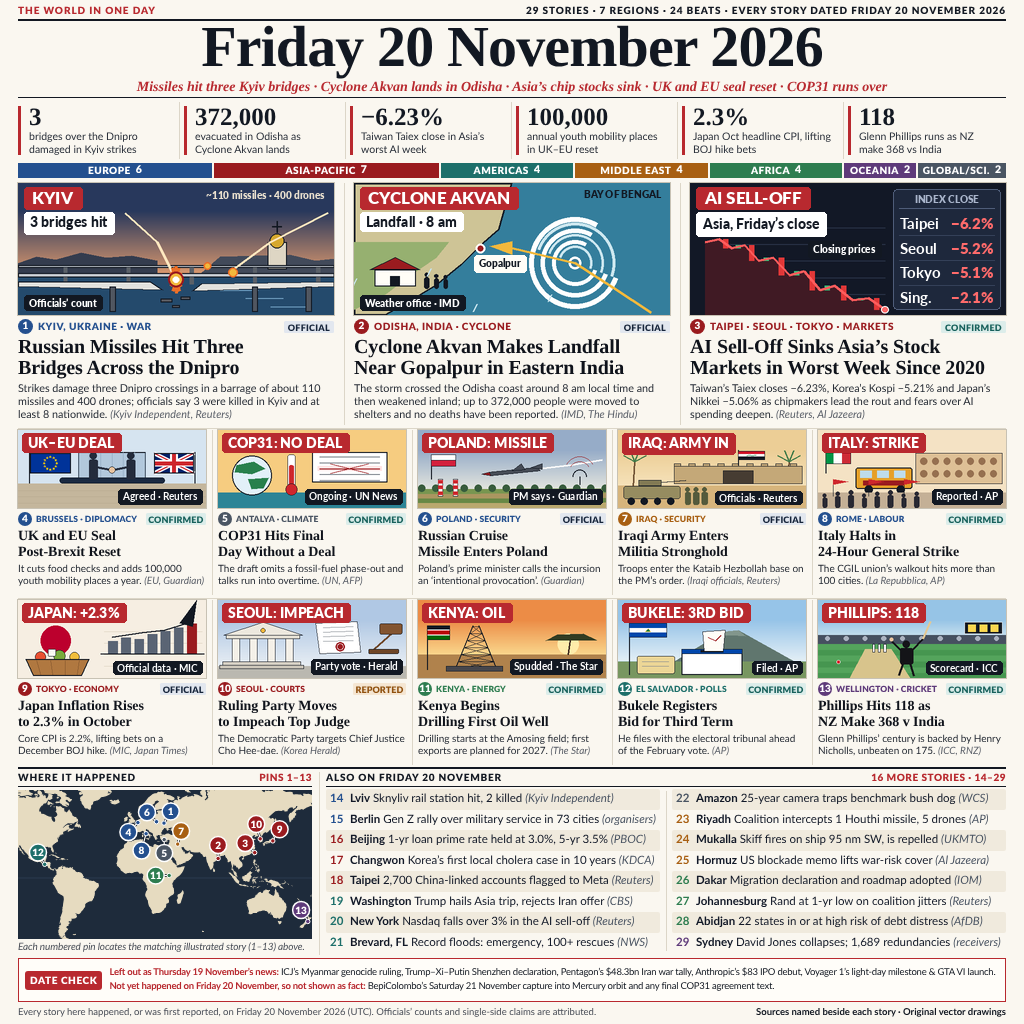
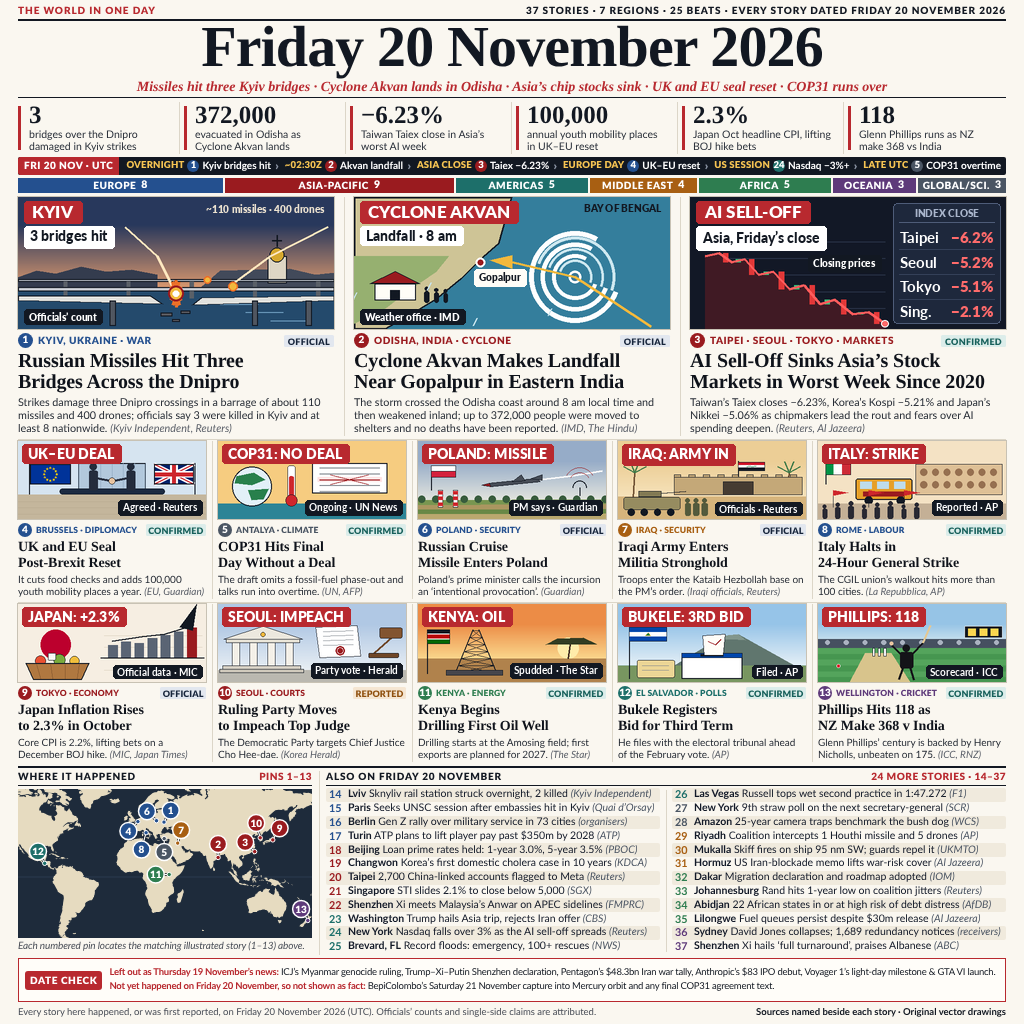
v14 (Opus 5.5): 37 verified stories across 7 regions & 25 beats, FRI 20 NOV UTC timeline strip, pixel-audited >=4px zero-overlap art pills, exact land-dot leader-pin map, and high-contrast briefs (461 KiB q89)

diff --git a/build_poster.py b/build_poster.py
@@ -1,10 +1,10 @@
 #!/usr/bin/env python3
-"""Build the Friday 20 November 2026 world-news front page (v13).
+"""Build the Friday 20 November 2026 world-news front page (v14).
 
 Run:  python3 build_poster.py
 Writes: assets/art_01..13.png, assets/poster.png, entry.png (1024x1024
-progressive 4:4:4 JPEG at q89, 380,000-465,000 bytes) and
-/tmp/news_1120_v13_300.png (300 px Lanczos proof).
+progressive 4:4:4 JPEG at q89, 440,000-480,000 bytes) and
+/tmp/news_1120_v14_300.png (300 px Lanczos proof).
 """
 from __future__ import annotations
 
@@ -25,18 +25,19 @@ import mapgen
 BASE = Path(__file__).resolve().parent
 ASSETS = BASE / "assets"
 CHROME = "/usr/bin/google-chrome"
-BUILD_TMP = Path("/tmp/news_1120_v13_build")
-PROOF_300 = Path("/tmp/news_1120_v13_300.png")
-MIN_BYTES, MAX_BYTES = 380_000, 465_000   # v13 hard budget; the gate limit is 1,048,576 bytes
+BUILD_TMP = Path("/tmp/news_1120_v14_build")
+PROOF_300 = Path("/tmp/news_1120_v14_300.png")
+MIN_BYTES, MAX_BYTES = 440_000, 480_000   # v14 hard budget; the gate limit is 1,048,576 bytes
 QUALITIES = (89,)
 
 LATO = Path("/usr/share/fonts/truetype/lato")
-BRIEF_PX = 11.5          # brief type size (v9: 10.5 px)
-BRIEF_ROW = 20.5         # brief line pitch, px (v9: 13.8 px)
-BRIEF_PAD = 4            # left/right padding inside each tinted row, px
-BRIEF_MAX_W = 326        # numeral + text must fit one line this wide (334 px column - padding)
-BNUM_PX = 11.5           # uncircled bold wire numeral
-BNUM_W, BNUM_GAP = 16, 4 # numeral box width and gap before the place (px)
+BRIEF_PX = 10.5          # brief type size (v13: 11.5 px for 16 briefs; v14 restores 24)
+BRIEF_ROW = 13.8         # brief line pitch, px: 12 rows per column
+BRIEF_PAD = 3            # left/right padding inside each tinted row, px
+BRIEF_MAX_W = 328        # numeral + text must fit one line this wide (334 px column - padding)
+BNUM_PX = 10.8           # uncircled bold wire numeral
+BNUM_W, BNUM_GAP = 15, 4 # numeral box width and gap before the place (px)
+TL_H = 18                # height of the FRIDAY 20 NOV (UTC) timeline strip, px
 BRIEF_INK = "#111827"
 GRID_DL_PX = 8.5         # 900-weight caps dateline on the 188 px cards (leads use 10 px)
 DATELINE_GAP = 6         # clear px between the end of PLACE · BEAT and its certainty pill
@@ -46,9 +47,9 @@ DATELINE_GAP = 6         # clear px between the end of PLACE · BEAT and its cer
 # 20 November 2026 (UTC). Thursday 19 November news and events that have not
 # happened yet (Saturday 21 November) appear only in the DATE CHECK box, as
 # omissions.
-# kind: hero (1-3) · grid (4-13) · brief (14-29).
+# kind: hero (1-3) · grid (4-13) · brief (14-37).
 # dl: the beat word printed in the dateline; beat: the category counted in
-# the "24 beats" tally.
+# the "25 beats" tally.
 # Every illustrated story prints PLACE · BEAT on its dateline row, with its
 # tag (OFFICIAL / CONFIRMED / REPORTED) as a tinted pill at the row's right end.
 # The 188 px cards use short place names so both fit on one line.
@@ -126,46 +127,62 @@ STORIES = [
          headline="Phillips Hits 118 as NZ Make 368 v India",
          summary="Glenn Phillips’ century is backed by Henry Nicholls, unbeaten on 175.",
          art="art_13.png", pin=(174.8, -41.3)),
-    # --- also on Friday: 16 wire briefs, 8 per column, every region --------
-    # --- Europe -------------------------------------------------------------
+    # --- also on Friday: 24 wire briefs, 12 per column, every region ---
+    # --- Europe ---------------------------------------------
     dict(n=14, kind="brief", region="EUROPE", beat="Conflict", place="Lviv",
-         text="Sknyliv rail station hit, 2 killed", src="Kyiv Independent"),
-    dict(n=15, kind="brief", region="EUROPE", beat="Protest", place="Berlin",
+         text="Sknyliv rail station struck overnight, 2 killed", src="Kyiv Independent"),
+    dict(n=15, kind="brief", region="EUROPE", beat="Diplomacy", place="Paris",
+         text="Seeks UNSC session after embassies hit in Kyiv", src="Quai d’Orsay"),
+    dict(n=16, kind="brief", region="EUROPE", beat="Protest", place="Berlin",
          text="Gen Z rally over military service in 73 cities", src="organisers"),
+    dict(n=17, kind="brief", region="EUROPE", beat="Sport", place="Turin",
+         text="ATP plans to lift player pay past $350m by 2028", src="ATP"),
     # --- Asia-Pacific -------------------------------------------------------
-    dict(n=16, kind="brief", region="ASIA-PACIFIC", beat="Central banks", place="Beijing",
-         text="1-yr loan prime rate held at 3.0%, 5-yr 3.5%", src="PBOC"),
-    dict(n=17, kind="brief", region="ASIA-PACIFIC", beat="Health", place="Changwon",
-         text="Korea’s first local cholera case in 10 years", src="KDCA"),
-    dict(n=18, kind="brief", region="ASIA-PACIFIC", beat="Disinformation", place="Taipei",
+    dict(n=18, kind="brief", region="ASIA-PACIFIC", beat="Central banks", place="Beijing",
+         text="Loan prime rates held: 1-year 3.0%, 5-year 3.5%", src="PBOC"),
+    dict(n=19, kind="brief", region="ASIA-PACIFIC", beat="Health", place="Changwon",
+         text="Korea’s first domestic cholera case in 10 years", src="KDCA"),
+    dict(n=20, kind="brief", region="ASIA-PACIFIC", beat="Disinformation", place="Taipei",
          text="2,700 China-linked accounts flagged to Meta", src="Reuters"),
+    dict(n=21, kind="brief", region="ASIA-PACIFIC", beat="Markets", place="Singapore",
+         text="STI slides 2.1% to close below 5,000", src="SGX"),
+    dict(n=22, kind="brief", region="ASIA-PACIFIC", beat="Diplomacy", place="Shenzhen",
+         text="Xi meets Malaysia’s Anwar on APEC sidelines", src="FMPRC"),
     # --- Americas -----------------------------------------------------------
-    dict(n=19, kind="brief", region="AMERICAS", beat="US politics", place="Washington",
+    dict(n=23, kind="brief", region="AMERICAS", beat="US politics", place="Washington",
          text="Trump hails Asia trip, rejects Iran offer", src="CBS"),
-    dict(n=20, kind="brief", region="AMERICAS", beat="Tech", place="New York",
-         text="Nasdaq falls over 3% in the AI sell-off", src="Reuters"),
-    dict(n=21, kind="brief", region="AMERICAS", beat="Weather", place="Brevard, FL",
+    dict(n=24, kind="brief", region="AMERICAS", beat="Tech", place="New York",
+         text="Nasdaq falls over 3% as the AI sell-off spreads", src="Reuters"),
+    dict(n=25, kind="brief", region="AMERICAS", beat="Weather", place="Brevard, FL",
          text="Record floods: emergency, 100+ rescues", src="NWS"),
+    dict(n=26, kind="brief", region="AMERICAS", beat="Sport", place="Las Vegas",
+         text="Russell tops wet second practice in 1:47.272", src="F1"),
     # --- Global / science ---------------------------------------------------
-    dict(n=22, kind="brief", region="GLOBAL/SCIENCE", beat="Wildlife", place="Amazon",
-         text="25-year camera traps benchmark bush dog", src="WCS"),
+    dict(n=27, kind="brief", region="GLOBAL/SCIENCE", beat="UN", place="New York",
+         text="9th straw poll on the next secretary-general", src="SCR"),
+    dict(n=28, kind="brief", region="GLOBAL/SCIENCE", beat="Wildlife", place="Amazon",
+         text="25-year camera traps benchmark the bush dog", src="WCS"),
     # --- Middle East --------------------------------------------------------
-    dict(n=23, kind="brief", region="MIDDLE EAST", beat="Conflict", place="Riyadh",
-         text="Coalition intercepts 1 Houthi missile, 5 drones", src="AP"),
-    dict(n=24, kind="brief", region="MIDDLE EAST", beat="Piracy", place="Mukalla",
-         text="Skiff fires on ship 95 nm SW, is repelled", src="UKMTO"),
-    dict(n=25, kind="brief", region="MIDDLE EAST", beat="Shipping", place="Hormuz",
-         text="US blockade memo lifts war-risk cover", src="Al Jazeera"),
+    dict(n=29, kind="brief", region="MIDDLE EAST", beat="Conflict", place="Riyadh",
+         text="Coalition intercepts 1 Houthi missile and 5 drones", src="AP"),
+    dict(n=30, kind="brief", region="MIDDLE EAST", beat="Piracy", place="Mukalla",
+         text="Skiff fires on ship 95 nm SW; guards repel it", src="UKMTO"),
+    dict(n=31, kind="brief", region="MIDDLE EAST", beat="Shipping", place="Hormuz",
+         text="US Iran-blockade memo lifts war-risk cover", src="Al Jazeera"),
     # --- Africa -------------------------------------------------------------
-    dict(n=26, kind="brief", region="AFRICA", beat="Migration", place="Dakar",
+    dict(n=32, kind="brief", region="AFRICA", beat="Migration", place="Dakar",
          text="Migration declaration and roadmap adopted", src="IOM"),
-    dict(n=27, kind="brief", region="AFRICA", beat="Markets", place="Johannesburg",
-         text="Rand at 1-yr low on coalition jitters", src="Reuters"),
-    dict(n=28, kind="brief", region="AFRICA", beat="Debt", place="Abidjan",
-         text="22 states in or at high risk of debt distress", src="AfDB"),
+    dict(n=33, kind="brief", region="AFRICA", beat="Markets", place="Johannesburg",
+         text="Rand hits 1-year low on coalition jitters", src="Reuters"),
+    dict(n=34, kind="brief", region="AFRICA", beat="Debt", place="Abidjan",
+         text="22 African states in or at high risk of debt distress", src="AfDB"),
+    dict(n=35, kind="brief", region="AFRICA", beat="Energy", place="Lilongwe",
+         text="Fuel queues persist despite $30m release", src="Al Jazeera"),
     # --- Oceania ------------------------------------------------------------
-    dict(n=29, kind="brief", region="OCEANIA", beat="Business", place="Sydney",
-         text="David Jones collapses; 1,689 redundancies", src="receivers"),
+    dict(n=36, kind="brief", region="OCEANIA", beat="Business", place="Sydney",
+         text="David Jones collapses; 1,689 redundancy notices", src="receivers"),
+    dict(n=37, kind="brief", region="OCEANIA", beat="Diplomacy", place="Shenzhen",
+         text="Xi hails ‘full turnaround’, praises Albanese", src="ABC"),
 ]
 
 REGION_ORDER = ["EUROPE", "ASIA-PACIFIC", "AMERICAS", "MIDDLE EAST", "AFRICA", "OCEANIA", "GLOBAL/SCIENCE"]
@@ -188,6 +205,22 @@ STATS = [
 # every stat must be backed by its story's text on the page
 STAT_SOURCES = {"3": (1, "three Dnipro"), "372,000": (2, "372,000"), "−6.23%": (3, "−6.23%"),
                 "100,000": (4, "100,000"), "2.3%": (9, "2.3%"), "118": (13, "118")}
+
+# Friday 20 November in UTC order. Only one clock time is printed: Cyclone
+# Akvan's landfall "around 8 am local time" (IST = UTC+5:30), i.e. ~02:30Z.
+# Every other step is a phase label because no exact time was published.
+# Japan's CPI (08:30 JST = 23:30Z Thursday) and the Wellington Test (NZ day
+# play is mostly Thursday UTC) are left off this UTC strip on purpose.
+# (when, story number, label)
+TIMELINE = [
+    ("OVERNIGHT", 1, "Kyiv bridges hit"),
+    ("~02:30Z", 2, "Akvan landfall"),
+    ("ASIA CLOSE", 3, "Taiex −6.23%"),
+    ("EUROPE DAY", 4, "UK–EU reset"),
+    ("US SESSION", 24, "Nasdaq −3%+"),
+    ("LATE UTC", 5, "COP31 overtime"),
+]
+TL_CLOCKS = {"~02:30Z"}          # the only clock times allowed on the strip
 
 DECK = ("Missiles hit three Kyiv bridges · Cyclone Akvan lands in Odisha · "
         "Asia’s chip stocks sink · UK and EU seal reset · COP31 runs over")
@@ -265,6 +298,17 @@ def measure_briefs() -> dict[int, float]:
     return out
 
 
+def timeline_html() -> str:
+    """FRIDAY 20 NOV (UTC) strip: phase/clock, region-coloured story number, label."""
+    by_n = {s["n"]: s for s in STORIES}
+    steps = "".join(
+        f'<div class="ts" data-story="{n}"><b class="tw">{esc(w)}</b>'
+        f'<span class="tn" style="background:{REGION_COLORS[by_n[n]['region']]}">{n}</span>'
+        f'<span class="tx">{esc(t)}</span></div>' for w, n, t in TIMELINE)
+    return (f'<div class="band timeline"><div class="tlhead">Fri 20 Nov · UTC</div>'
+            f'<div class="tlrail">{steps}</div></div>')
+
+
 def datecheck_html() -> str:
     return f'''
   <div class="datecheck">
@@ -310,22 +354,30 @@ body {{ font-family:'LatoX', sans-serif; color:#121822; -webkit-font-smoothing:a
 .kickerbar .l {{ color:#B8292F; }}
 .masthead {{ top:19px; height:60px; font:700 58px/52px 'LibSerif'; letter-spacing:-.015em; text-align:center; white-space:nowrap; border-top:2px solid #121822; }}
 .deck {{ top:79px; height:19px; font:italic 700 14px/18px 'LibSerif'; color:#B8292F; text-align:center; white-space:nowrap; border-bottom:1px solid #121822; }}
-.stats {{ top:102px; height:57px; display:flex; }}
+.stats {{ top:102px; height:52px; display:flex; }}
 .stat {{ flex:1 1 0; min-width:0; position:relative; padding:0 8px 0 11px; display:flex; flex-direction:column; justify-content:center; }}
 .stat::before {{ content:''; position:absolute; left:0; top:4px; bottom:4px; width:3px; background:#B8292F; }}
 .stat + .stat {{ margin-left:8px; }}
 .stat + .stat::after {{ content:''; position:absolute; left:-5px; top:0; bottom:0; border-left:1px solid #DCD6C8; }}
 .stat b {{ font:700 25px/26px 'LibSerif'; color:#121822; white-space:nowrap; }}
 .stat .sx {{ font:400 10.5px/12.5px 'LatoX'; color:#2A303A; height:25px; overflow:hidden; }}
-.regionbar {{ top:163px; height:15px; display:flex; gap:2px; }}
+.timeline {{ top:157px; height:{TL_H}px; display:flex; align-items:center; gap:7px; background:#121822; border-radius:2px; padding:0 5px 0 0; white-space:nowrap; overflow:hidden; }}
+.tlhead {{ flex:0 0 auto; align-self:stretch; display:flex; align-items:center; padding:0 6px; background:#B8292F; color:#FFF; font:900 10px/1 'LatoX'; letter-spacing:.05em; text-transform:uppercase; border-radius:2px 0 0 2px; }}
+.tlrail {{ flex:1; min-width:0; display:flex; justify-content:space-between; align-items:center; position:relative; }}
+.ts {{ display:flex; align-items:center; gap:3px; position:relative; height:14px; }}
+.ts + .ts::before {{ content:'›'; position:absolute; left:-9.5px; top:50%; transform:translateY(-52%); color:#8A93A3; font:900 12px/1 'LatoX'; }}
+.tw {{ font:900 9.5px/14px 'LatoX'; letter-spacing:.02em; color:#F6C453; }}
+.tn {{ flex:0 0 12px; width:12px; height:12px; border-radius:50%; color:#FFF; font:900 9.5px/12px 'LatoX'; text-align:center; }}
+.tx {{ font:700 10px/14px 'LatoX'; color:#FFF; }}
+.regionbar {{ top:178px; height:15px; display:flex; gap:2px; }}
 .rg {{ min-width:max-content; padding:0 5px; display:flex; align-items:center; justify-content:center; gap:5px; color:#FFF; white-space:nowrap; overflow:hidden; }}
 .rg span {{ font:900 10px/1 'LatoX'; letter-spacing:.05em; }}
 .rg b {{ font:900 10.5px/1 'LatoX'; }}
 .row {{ display:flex; }}
-.row.heroes {{ top:183px; height:242px; gap:20px; }}
-.row.grid {{ height:165px; gap:12px; }}
-.row.g1 {{ top:430px; }}
-.row.g2 {{ top:600px; }}
+.row.heroes {{ top:197px; height:239px; gap:20px; }}
+.row.grid {{ height:158px; gap:12px; }}
+.row.g1 {{ top:441px; }}
+.row.g2 {{ top:604px; }}
 .rule {{ position:absolute; left:18px; right:18px; height:0; border-top:1px solid #DCD6C8; }}
 .card {{ position:relative; display:flex; flex-direction:column; }}
 .card + .card::before {{ content:''; position:absolute; top:0; bottom:0; border-left:1px solid #DCD6C8; }}
@@ -350,7 +402,7 @@ h2 {{ margin:3px 0 0 0; font:700 20px/21px 'LibSerif'; color:#0E121A; letter-spa
 .summary {{ margin:3px 0 0 0; font:400 10.8px/13px 'LatoX'; color:#272D36; }}
 .grid .summary {{ font-size:10px; line-height:12.2px; }}
 .src {{ font-style:italic; color:#5C616A; }}
-.bottom {{ top:767px; height:188px; display:flex; gap:14px; border-top:2.5px solid #121822; padding-top:3px; }}
+.bottom {{ top:766px; height:189px; display:flex; gap:14px; border-top:2.5px solid #121822; padding-top:3px; }}
 .mapcol {{ flex:0 0 {mapgen.W}px; width:{mapgen.W}px; }}
 .briefcol {{ flex:1; min-width:0; position:relative; }}
 .briefcol::before {{ content:''; position:absolute; left:-7.5px; top:0; bottom:0; border-left:1px solid #DCD6C8; }}
@@ -364,8 +416,8 @@ h2 {{ margin:3px 0 0 0; font:700 20px/21px 'LibSerif'; color:#0E121A; letter-spa
 .bcol + .bcol::before {{ content:''; position:absolute; left:-6.5px; top:2px; bottom:2px; border-left:1px solid #DCD6C8; }}
 .brief {{ height:{BRIEF_ROW}px; display:flex; align-items:center; gap:{BNUM_GAP}px; padding:0 {BRIEF_PAD}px; border-radius:2px; }}
 .bcol .brief:nth-child(odd) {{ background:#F0EADD; }}
-.bnum {{ flex:0 0 {BNUM_W}px; width:{BNUM_W}px; font:700 {BNUM_PX}px/14px 'LatoX'; font-variant-numeric:tabular-nums; }}
-.btext {{ margin:0; font:400 {BRIEF_PX}px/14px 'LatoX'; color:{BRIEF_INK}; white-space:nowrap; }}
+.bnum {{ flex:0 0 {BNUM_W}px; width:{BNUM_W}px; font:700 {BNUM_PX}px/13px 'LatoX'; font-variant-numeric:tabular-nums; }}
+.btext {{ margin:0; font:400 {BRIEF_PX}px/13px 'LatoX'; color:{BRIEF_INK}; white-space:nowrap; }}
 .btext b {{ font-weight:700; color:{BRIEF_INK}; }}
 .btext i {{ color:#4B5563; }}
 .datecheck {{ top:958px; height:44px; border:1.5px solid #B8292F; background:#FFFDF9; display:flex; align-items:center; gap:7px; padding:0 6px; }}
@@ -381,11 +433,12 @@ h2 {{ margin:3px 0 0 0; font:700 20px/21px 'LibSerif'; color:#0E121A; letter-spa
   <div class="band masthead">Friday 20 November 2026</div>
   <div class="band deck">{esc(DECK)}</div>
   <div class="band stats">{stats}</div>
+  {timeline_html()}
   <div class="band regionbar">{regions}</div>
   <div class="band row heroes">{''.join(card_html(s) for s in heroes)}</div>
-  <div class="rule" style="top:427.5px"></div>
+  <div class="rule" style="top:438.5px"></div>
   <div class="band row grid g1">{''.join(card_html(s) for s in grid[:5])}</div>
-  <div class="rule" style="top:597.5px"></div>
+  <div class="rule" style="top:601.5px"></div>
   <div class="band row grid g2">{''.join(card_html(s) for s in grid[5:])}</div>
   <div class="band bottom">
     <div class="mapcol">
@@ -414,18 +467,19 @@ AUDIT_JS = r'''() => {
   [...cards, ...briefs].forEach(e => regionTagged[e.dataset.region] = (regionTagged[e.dataset.region] || 0) + 1);
 
   const overflows = [];
-  document.querySelectorAll('.page,.kickerbar,.masthead,.deck,.regionbar,.rg,.stats,.stat,.stat span,.card,.kicker,.place,.bottom,.mapbox,.mapcap,.briefcol,.bcol,.brief,.btext,.datecheck,.dclines,.dl,.secthead,.mapcol,.footer').forEach(el => {
+  document.querySelectorAll('.page,.timeline,.tlhead,.tlrail,.ts,.kickerbar,.masthead,.deck,.regionbar,.rg,.stats,.stat,.stat span,.card,.kicker,.place,.bottom,.mapbox,.mapcap,.briefcol,.bcol,.brief,.btext,.datecheck,.dclines,.dl,.secthead,.mapcol,.footer').forEach(el => {
     if (el.scrollWidth > el.clientWidth + 0.5 || el.scrollHeight > el.clientHeight + 0.5)
       overflows.push({cls: el.className, text: el.textContent.trim().slice(0, 40), sw: el.scrollWidth, cw: el.clientWidth, sh: el.scrollHeight, ch: el.clientHeight});
   });
   // text that is clipped by an overflow:hidden box
   const textClip = [];
-  document.querySelectorAll('.dl,.rg,.place,.mapcap,.stat .sx,.footer > div,.btext').forEach(el => {
+  document.querySelectorAll('.dl,.rg,.place,.mapcap,.stat .sx,.footer > div,.btext,.tlhead,.ts').forEach(el => {
     const range = document.createRange(); range.selectNodeContents(el);
     const rr = range.getBoundingClientRect(), r = R(el);
     if (rr.right > r.right + 0.5 || rr.bottom > r.bottom + 0.5) textClip.push({cls: el.className, text: el.textContent.slice(0, 30), over: +(rr.right - r.right).toFixed(1)});
   });
 
+  const lines = el => { const rs = [...el.getClientRects()].filter(r => r.width > 0); return new Set(rs.map(r => Math.round(r.top))).size; };
   const blockOverlaps = [];
   cards.forEach(c => {
     const cr = R(c);
@@ -447,6 +501,15 @@ AUDIT_JS = r'''() => {
   const cardOverlaps = [];
   boxes.forEach((a, i) => boxes.forEach((b, j) => { if (j > i && ov(R(a), R(b))) cardOverlaps.push([a.dataset.story || a.className, b.dataset.story || b.className]); }));
 
+  const tl = document.querySelector('.timeline'), tlr = R(tl);
+  const tsteps = [...tl.querySelectorAll('.ts')];
+  const timeline = {h: +tlr.h.toFixed(2), top: tlr.y, bottom: tlr.bottom,
+    when: tsteps.map(t => t.querySelector('.tw').textContent), stories: tsteps.map(t => +t.dataset.story),
+    nums: tsteps.map(t => +t.querySelector('.tn').textContent), lines: tsteps.map(t => lines(t.querySelector('.tx'))),
+    inside: [...tl.children, ...tsteps].every(e => { const r = R(e); return r.x >= tlr.x - 0.5 && r.right <= tlr.right + 0.5 && r.y >= tlr.y - 0.5 && r.bottom <= tlr.bottom + 0.5; }),
+    gaps: tsteps.slice(1).map((t, i) => +(R(t).x - R(tsteps[i]).right).toFixed(1)),
+    railEnd: +(R(tl.querySelector('.tlrail')).right - R(tsteps[tsteps.length - 1]).right).toFixed(1),
+    text: tl.textContent};
   const svg = document.querySelector('.mapsvg');
   const SW = +svg.getAttribute('width'), SH = +svg.getAttribute('height');
   const pins = [...document.querySelectorAll('.pin circle')].map(c => ({n: +c.parentNode.dataset.pin, x: +c.getAttribute('cx'), y: +c.getAttribute('cy'), r: +c.getAttribute('r')}));
@@ -457,7 +520,6 @@ AUDIT_JS = r'''() => {
   const pinR = pins.map(p => p.r);
   const pinLabels = [...document.querySelectorAll('.pin text')].map(t => +t.textContent);
 
-  const lines = el => { const rs = [...el.getClientRects()].filter(r => r.width > 0); return new Set(rs.map(r => Math.round(r.top))).size; };
   const headlineLines = cards.map(c => lines(c.querySelector('.hl')));
   const summaryLines = cards.map(c => lines(c.querySelector('.sum')));
   const briefLines = briefs.map(b => lines(b.querySelector('.bt')));
@@ -498,9 +560,9 @@ AUDIT_JS = r'''() => {
   clone.querySelector('.datecheck').remove();
   const pageTextNoDC = clone.textContent;
   const rects = {};
-  ['.regionbar', '.row.heroes', '.row.g1', '.row.g2', '.bottom', '.mapbox', '.datecheck', '.footer'].forEach(s => { const r = R(document.querySelector(s)); rects[s] = [r.x, r.y, r.right, r.bottom].map(v => +v.toFixed(1)); });
+  ['.timeline', '.regionbar', '.row.heroes', '.row.g1', '.row.g2', '.bottom', '.mapbox', '.datecheck', '.footer'].forEach(s => { const r = R(document.querySelector(s)); rects[s] = [r.x, r.y, r.right, r.bottom].map(v => +v.toFixed(1)); });
   const cardBottoms = cards.map(c => +(R(c.querySelector('.summary')).bottom - R(c).y).toFixed(1));
-  return {doc, stories, regionCounts, regionTagged, overflows, textClip, blockOverlaps, bandOverlaps, cardOverlaps,
+  return {doc, timeline, stories, regionCounts, regionTagged, overflows, textClip, blockOverlaps, bandOverlaps, cardOverlaps,
           tagCount, datelines, briefNums, heroBottoms, pinCount: pins.length, pinNumbers, pinLabels, pinR, pinOverlaps, pinsOutside, headlineLines, summaryLines, briefLines,
           briefWidths, briefRows, statLines, minHtml, minHtmlText, minSvg, minDl, imagesLoaded, artSizes, stats, kicker,
           pageBottom: R(document.querySelector('.footer')).bottom, rects, cardBottoms,
@@ -519,11 +581,16 @@ def check_stories() -> list[str]:
             if w.lower() in body.lower():
                 f.append(f"story {s['n']} contains date-check-only text '{w}'")
     nums = [s["n"] for s in STORIES]
-    if nums != list(range(1, 30)):
-        f.append(f"v13 needs stories 1-29 in order, got {nums}")
+    if nums != list(range(1, 38)):
+        f.append(f"v14 needs stories 1-37 in order, got {nums}")
     kinds = [s["kind"] for s in STORIES]
-    if kinds != ["hero"] * 3 + ["grid"] * 10 + ["brief"] * 16:
-        f.append("v13 needs 3 leads, 10 cards and 16 briefs")
+    if kinds != ["hero"] * 3 + ["grid"] * 10 + ["brief"] * 24:
+        f.append("v14 needs 3 leads, 10 cards and 24 briefs")
+    for w, sn, _ in TIMELINE:
+        if sn not in nums:
+            f.append(f"timeline step {w} points at missing story {sn}")
+        if re.search(r"\d", w) and w not in TL_CLOCKS:
+            f.append(f"timeline clock time {w} is not an allowed published time")
     briefs = [s for s in STORIES if s["kind"] == "brief"]
     if {s["region"] for s in briefs} != set(REGION_ORDER):
         f.append(f"briefs cover only {sorted({s['region'] for s in briefs})}")
@@ -534,7 +601,7 @@ def check_stories() -> list[str]:
         s = STORIES[sn - 1]
         if phrase not in s["headline"].replace("\n", " ") + " " + s["summary"]:
             f.append(f"stat {v} not backed by story {sn} ('{phrase}')")
-    if len(BEATS) < 24:
+    if len(BEATS) < 25:
         f.append(f"only {len(BEATS)} beats")
     return f
 
@@ -544,6 +611,17 @@ def check_audit(a: dict) -> list[str]:
     n = len(STORIES)
     if a["doc"] != [1024, 1024]:
         f.append(f"doc {a['doc']}")
+    t = a["timeline"]
+    if t["h"] != TL_H or not t["inside"] or any(x != 1 for x in t["lines"]):
+        f.append(f"timeline strip must be {TL_H}px, one line, nothing outside: {t}")
+    if t["when"] != [w for w, _, _ in TIMELINE] or t["stories"] != t["nums"] \
+            or t["nums"] != [n for _, n, _ in TIMELINE]:
+        f.append(f"timeline steps {t['when']} {t['nums']}")
+    if min(t["gaps"]) < 13 or abs(t["railEnd"]) > 0.5:
+        f.append(f"timeline steps too close or not spread: gaps {t['gaps']} end {t['railEnd']}")
+    clocks = set(re.findall(r"~?\d{1,2}:\d{2}Z?", t["text"]))
+    if clocks - TL_CLOCKS:
+        f.append(f"unpublished clock times on timeline: {clocks - TL_CLOCKS}")
     if sorted(a["stories"]) != list(range(1, n + 1)):
         f.append(f"stories {a['stories']}")
     if sum(a["regionCounts"]) != n or len(a["regionCounts"]) != 7:
@@ -669,7 +747,7 @@ def main() -> int:
         page.wait_for_timeout(400)
         a = page.evaluate(AUDIT_JS)
         failures = check_audit(a)
-        keys = ("pageBottom", "heroBottoms", "wireSlack", "mapSlack", "headlineLines", "summaryLines", "briefLines",
+        keys = ("timeline", "pageBottom", "heroBottoms", "wireSlack", "mapSlack", "headlineLines", "summaryLines", "briefLines",
                 "statLines", "cardBottoms", "minHtml", "minSvg", "regionCounts", "pinCount", "rects")
         print("metrics:", json.dumps({k: a[k] for k in keys}, ensure_ascii=False))
         print("brief widths (DOM):", a["briefWidths"])
